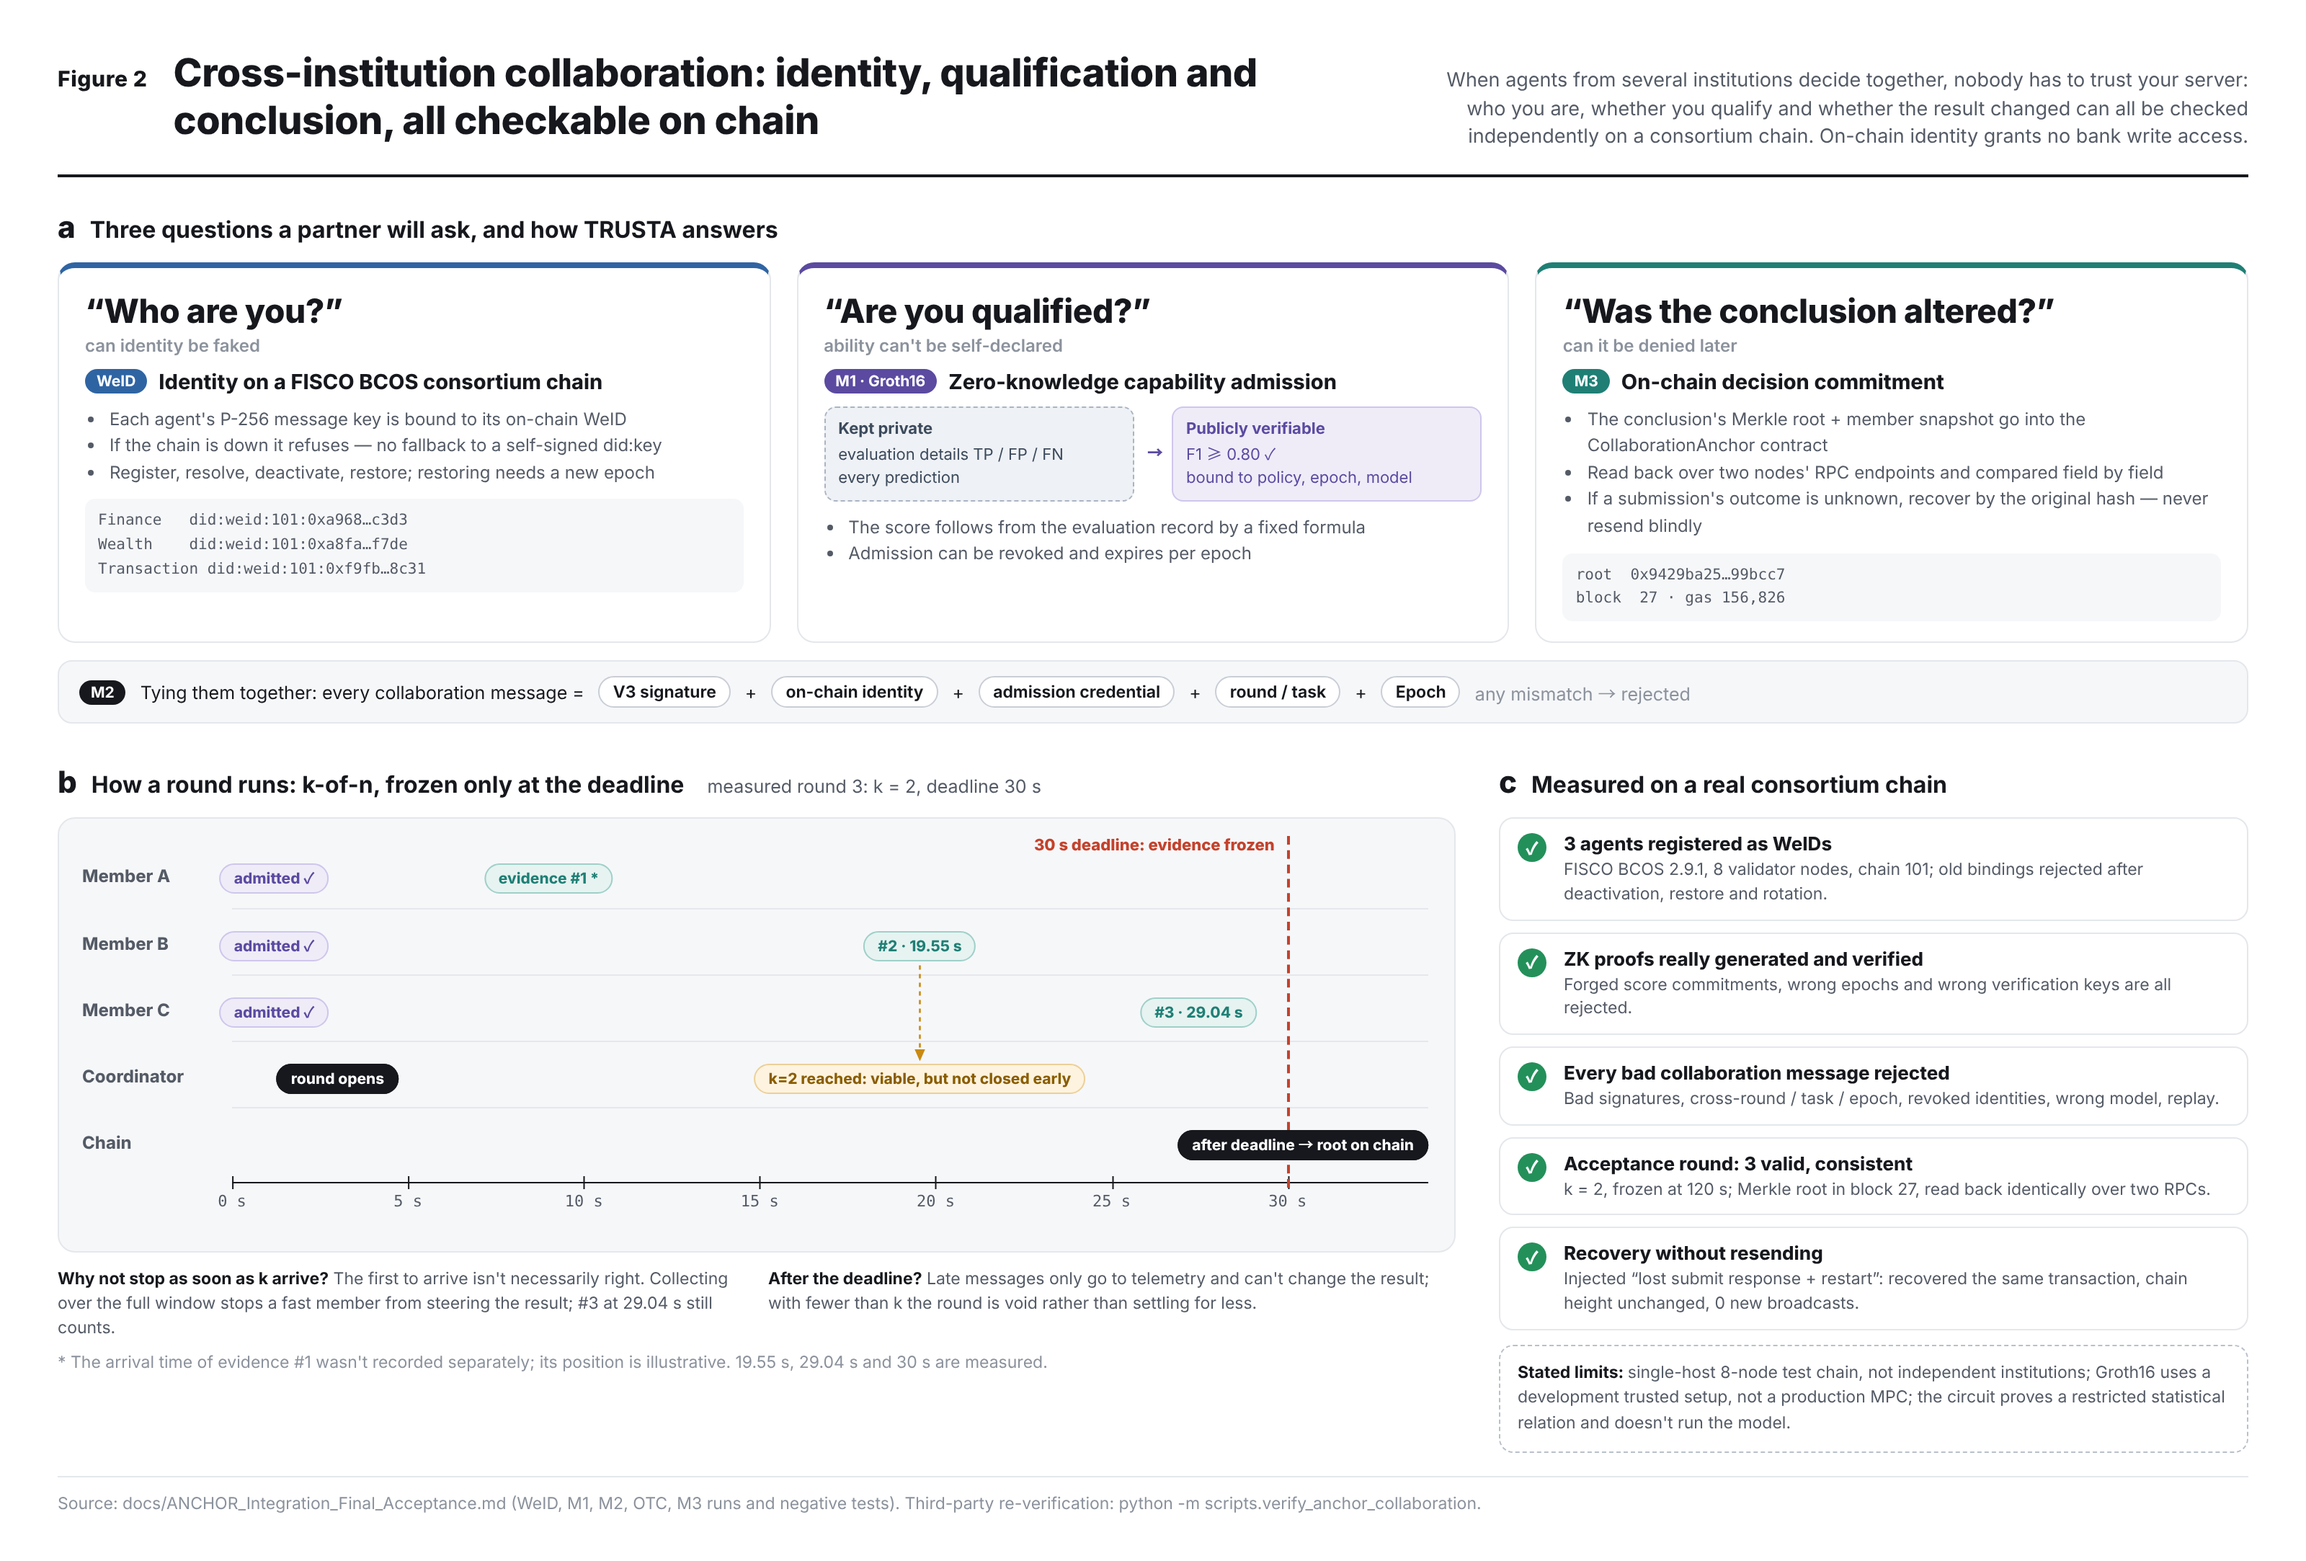
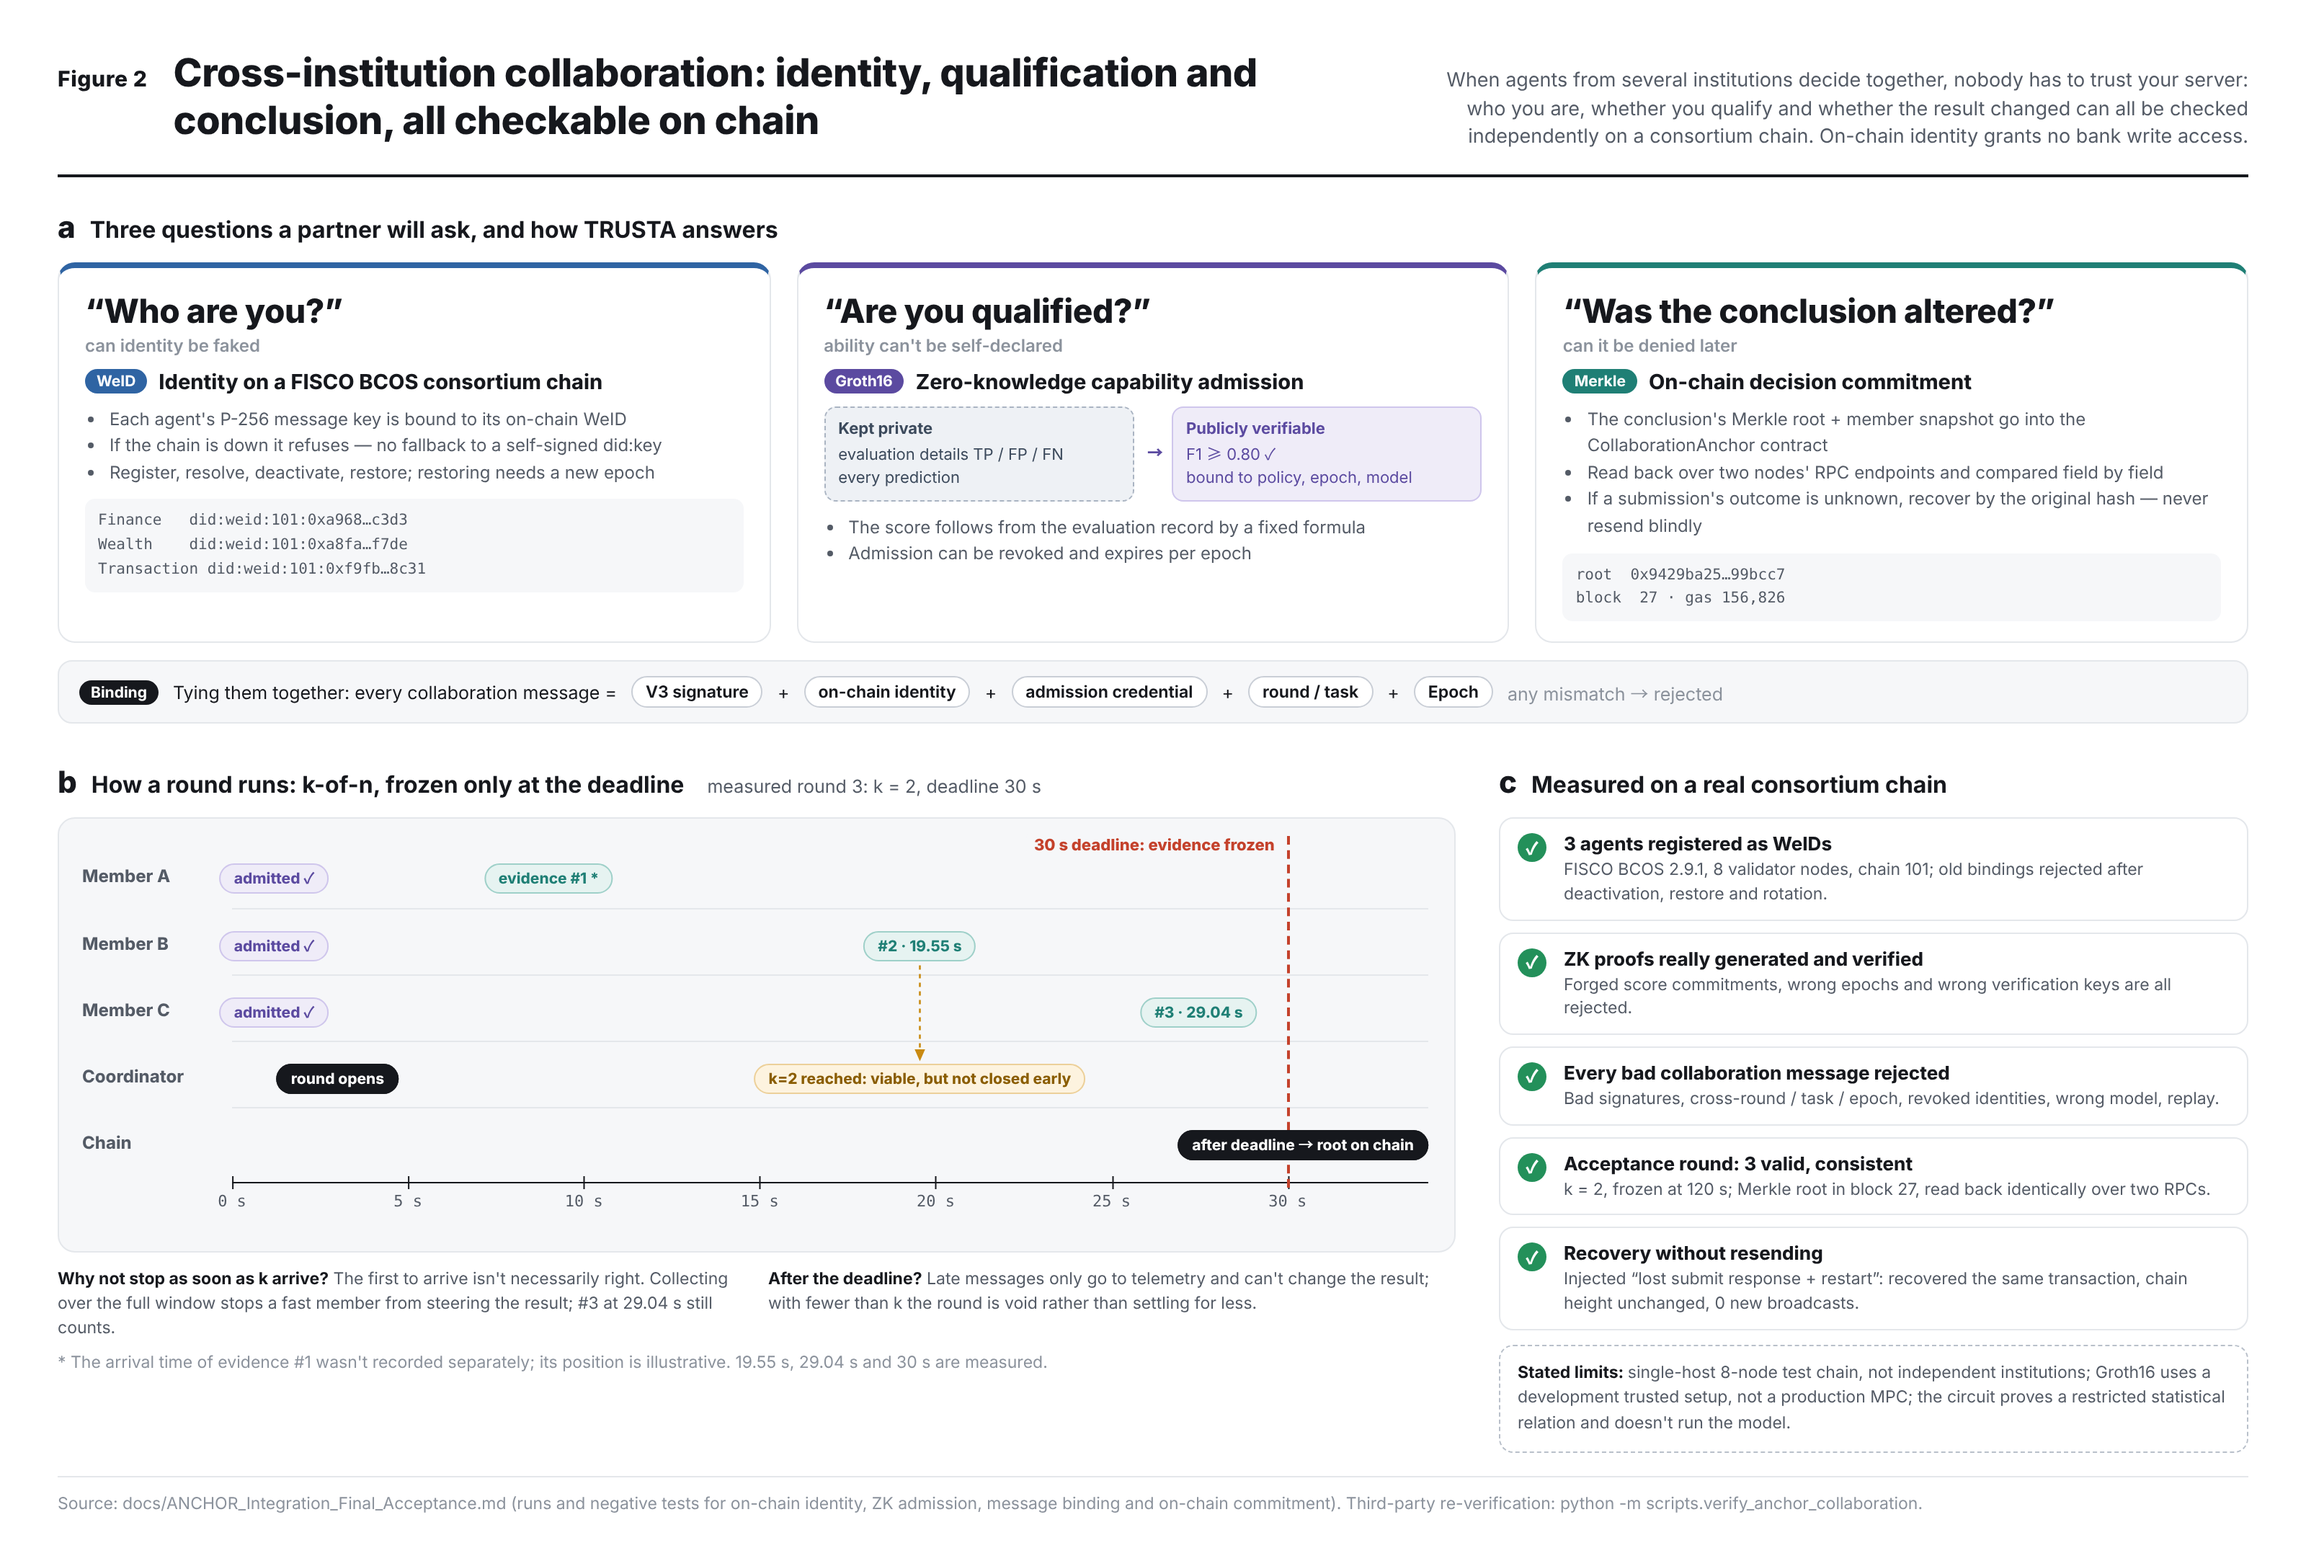
Figure 2: drop M1/M2/M3 labels

diff --git a/docs/figures/src/fig2.html b/docs/figures/src/fig2.html
@@ -86,7 +86,7 @@ fig.innerHTML = `
     </div>
     <div class="q c2">
       <div class="ask">${T("“你够格吗？”", "“Are you qualified?”")}<small>${T("能力不能自己报", "ability can't be self-declared")}</small></div>
-      <div class="mech"><span class="tag" style="background:var(--purple)">M1 · Groth16</span>${T("零知识能力准入", "Zero-knowledge capability admission")}</div>
+      <div class="mech"><span class="tag" style="background:var(--purple)">Groth16</span>${T("零知识能力准入", "Zero-knowledge capability admission")}</div>
       <div class="zk">
         <div class="priv"><b>${T("保密（不公开）", "Kept private")}</b>${T("评测明细 TP / FP / FN<br>每条预测结果", "evaluation details TP / FP / FN<br>every prediction")}</div>
         <div class="arrow">→</div>
@@ -99,7 +99,7 @@ fig.innerHTML = `
     </div>
     <div class="q c3">
       <div class="ask">${T("“结论被改过吗？”", "“Was the conclusion altered?”")}<small>${T("事后能不能否认", "can it be denied later")}</small></div>
-      <div class="mech"><span class="tag" style="background:var(--teal)">M3</span>${T("链上决策承诺", "On-chain decision commitment")}</div>
+      <div class="mech"><span class="tag" style="background:var(--teal)">Merkle</span>${T("链上决策承诺", "On-chain decision commitment")}</div>
       <ul>
         <li>${T("结论的 Merkle 根 + 成员快照写入 CollaborationAnchor 合约", "The conclusion's Merkle root + member snapshot go into the CollaborationAnchor contract")}</li>
         <li>${T("两个节点的 RPC 分别读回，逐项核对", "Read back over two nodes' RPC endpoints and compared field by field")}</li>
@@ -108,7 +108,7 @@ fig.innerHTML = `
       <div class="data">root&nbsp;&nbsp;0x9429ba25…99bcc7<br>${T("区块", "block")}&nbsp;&nbsp;27 · gas 156,826</div>
     </div>
   </div>
-  <div class="m2"><span class="tag">M2</span>${T("把三者连起来：每条协作消息 =", "Tying them together: every collaboration message =")}
+  <div class="m2"><span class="tag">${T("绑定", "Binding")}</span>${T("把三者连起来：每条协作消息 =", "Tying them together: every collaboration message =")}
     <i>${T("V3 签名", "V3 signature")}</i>+<i>${T("链上身份", "on-chain identity")}</i>+<i>${T("准入凭证", "admission credential")}</i>+<i>${T("轮次 / 任务", "round / task")}</i>+<i>Epoch</i>
     <em>${T("任何一项对不上即拒收", "any mismatch → rejected")}</em></div>
 </section>
@@ -155,8 +155,8 @@ fig.innerHTML = `
       "single-host 8-node test chain, not independent institutions; Groth16 uses a development trusted setup, not a production MPC; the circuit proves a restricted statistical relation and doesn't run the model.")}</div>
   </section>
 </div>
-<div class="foot">${T("数据来源：docs/ANCHOR_Integration_Final_Acceptance.md（WeID、M1、M2、OTC、M3 实测与负例）。第三方复验：python -m scripts.verify_anchor_collaboration。",
-  "Source: docs/ANCHOR_Integration_Final_Acceptance.md (WeID, M1, M2, OTC, M3 runs and negative tests). Third-party re-verification: python -m scripts.verify_anchor_collaboration.")}</div>
+<div class="foot">${T("数据来源：docs/ANCHOR_Integration_Final_Acceptance.md（链上身份、零知识准入、消息绑定、链上承诺的实测与负例）。第三方复验：python -m scripts.verify_anchor_collaboration。",
+  "Source: docs/ANCHOR_Integration_Final_Acceptance.md (runs and negative tests for on-chain identity, ZK admission, message binding and on-chain commitment). Third-party re-verification: python -m scripts.verify_anchor_collaboration.")}</div>
 `;
 
 document.fonts.ready.then(() => {
